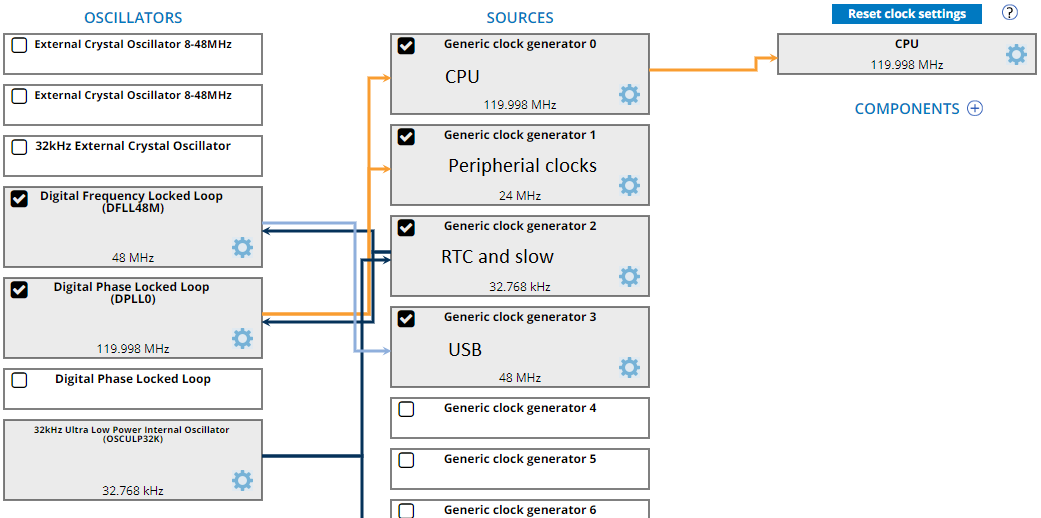
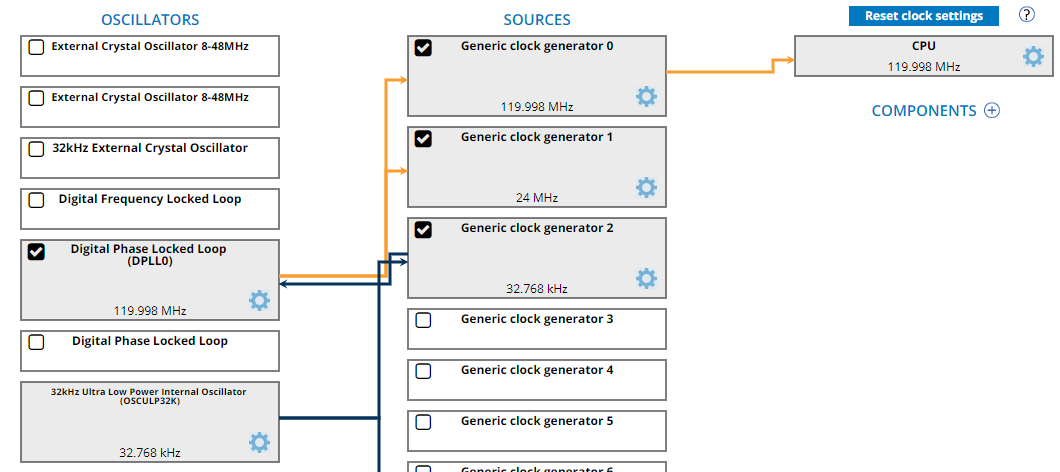
Disable DFLL - not needed, run LED SPI from the common peripherial 24MHz clock

Changed region(s): [[0.0, 0.0, 1.0, 1.0]]

diff --git a/Config/hpl_oscctrl_config.h b/Config/hpl_oscctrl_config.h
@@ -261,14 +261,14 @@
 // <i> Indicates whether DFLL is enabled or not
 // <id> dfll_arch_enable
 #ifndef CONF_DFLL_ENABLE
-#define CONF_DFLL_ENABLE 1
+#define CONF_DFLL_ENABLE 0
 #endif
 
 // <q> On Demand Control
 // <i> Indicates whether On Demand Control is enabled or not
 // <id> dfll_arch_ondemand
 #ifndef CONF_DFLL_ONDEMAND
-#define CONF_DFLL_ONDEMAND 1
+#define CONF_DFLL_ONDEMAND 0
 #endif
 
 // <q> Run in Standby
@@ -282,7 +282,7 @@
 // <i> Indicates whether USB Clock Recovery Mode is enabled or not
 // <id> dfll_arch_usbcrm
 #ifndef CONF_DFLL_USBCRM
-#define CONF_DFLL_USBCRM 1
+#define CONF_DFLL_USBCRM 0
 #endif
 
 // <q> Wait Lock
@@ -332,7 +332,7 @@
 // <1=>Closed Loop Mode
 // <id> dfll_mode
 #ifndef CONF_DFLL_MODE
-#define CONF_DFLL_MODE 0x01
+#define CONF_DFLL_MODE 0x0
 #endif
 
 // <o> Coarse Maximum Step <0x0-0x1F>

diff --git a/Config/peripheral_clk_config.h b/Config/peripheral_clk_config.h
@@ -1476,7 +1476,7 @@
 
 // <i> Select the clock source for CORE.
 #ifndef CONF_GCLK_SERCOM4_CORE_SRC
-#define CONF_GCLK_SERCOM4_CORE_SRC GCLK_PCHCTRL_GEN_GCLK0_Val
+#define CONF_GCLK_SERCOM4_CORE_SRC GCLK_PCHCTRL_GEN_GCLK1_Val
 #endif
 
 // <y> Slow Clock Source
@@ -1516,7 +1516,7 @@
  * \brief SERCOM4's Core Clock frequency
  */
 #ifndef CONF_GCLK_SERCOM4_CORE_FREQUENCY
-#define CONF_GCLK_SERCOM4_CORE_FREQUENCY 120000000
+#define CONF_GCLK_SERCOM4_CORE_FREQUENCY 23999692
 #endif
 
 /**

diff --git a/Config/hpl_gclk_config.h b/Config/hpl_gclk_config.h
@@ -235,7 +235,7 @@
 // <i> Indicates whether generic clock 3 configuration is enabled or not
 // <id> enable_gclk_gen_3
 #ifndef CONF_GCLK_GENERATOR_3_CONFIG
-#define CONF_GCLK_GENERATOR_3_CONFIG 1
+#define CONF_GCLK_GENERATOR_3_CONFIG 0
 #endif
 
 // <h> Generic Clock Generator Control

diff --git a/Config/hpl_sercom_config.h b/Config/hpl_sercom_config.h
@@ -679,7 +679,7 @@
 // <i> The SPI data transfer rate
 // <id> spi_master_baud_rate
 #ifndef CONF_SERCOM_4_SPI_BAUD
-#define CONF_SERCOM_4_SPI_BAUD 6250000
+#define CONF_SERCOM_4_SPI_BAUD 4000000
 #endif
 
 // </h>
